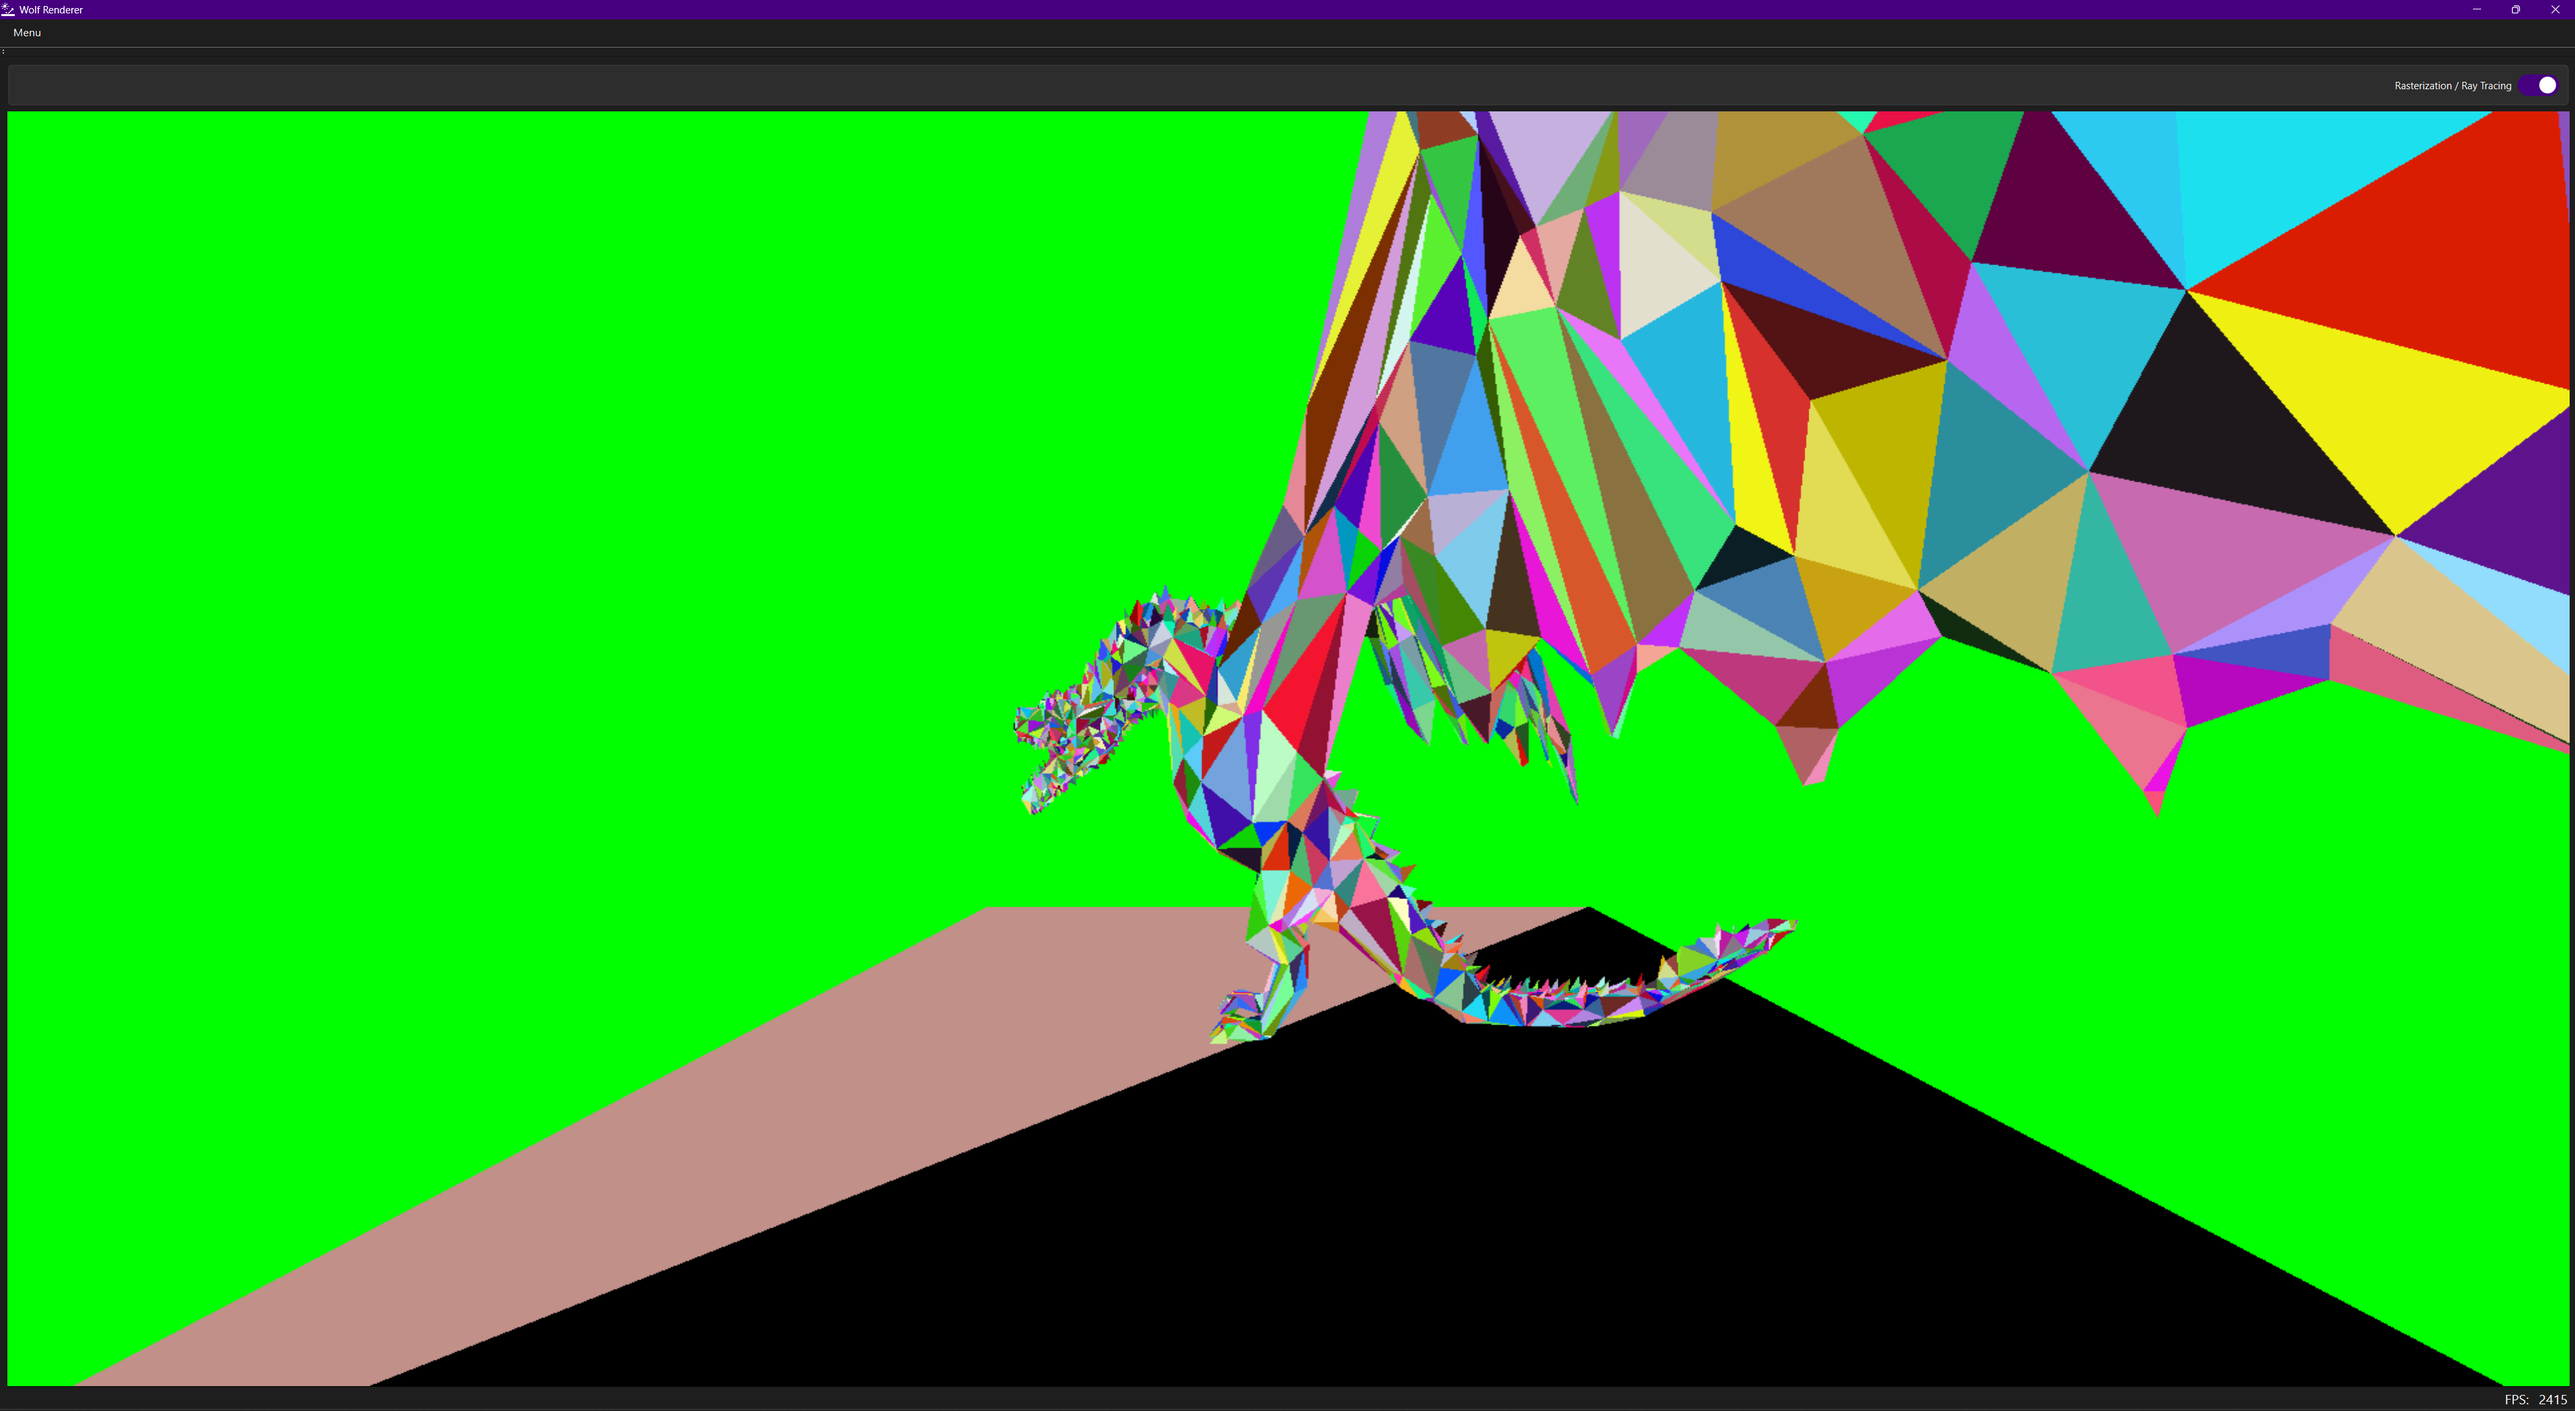
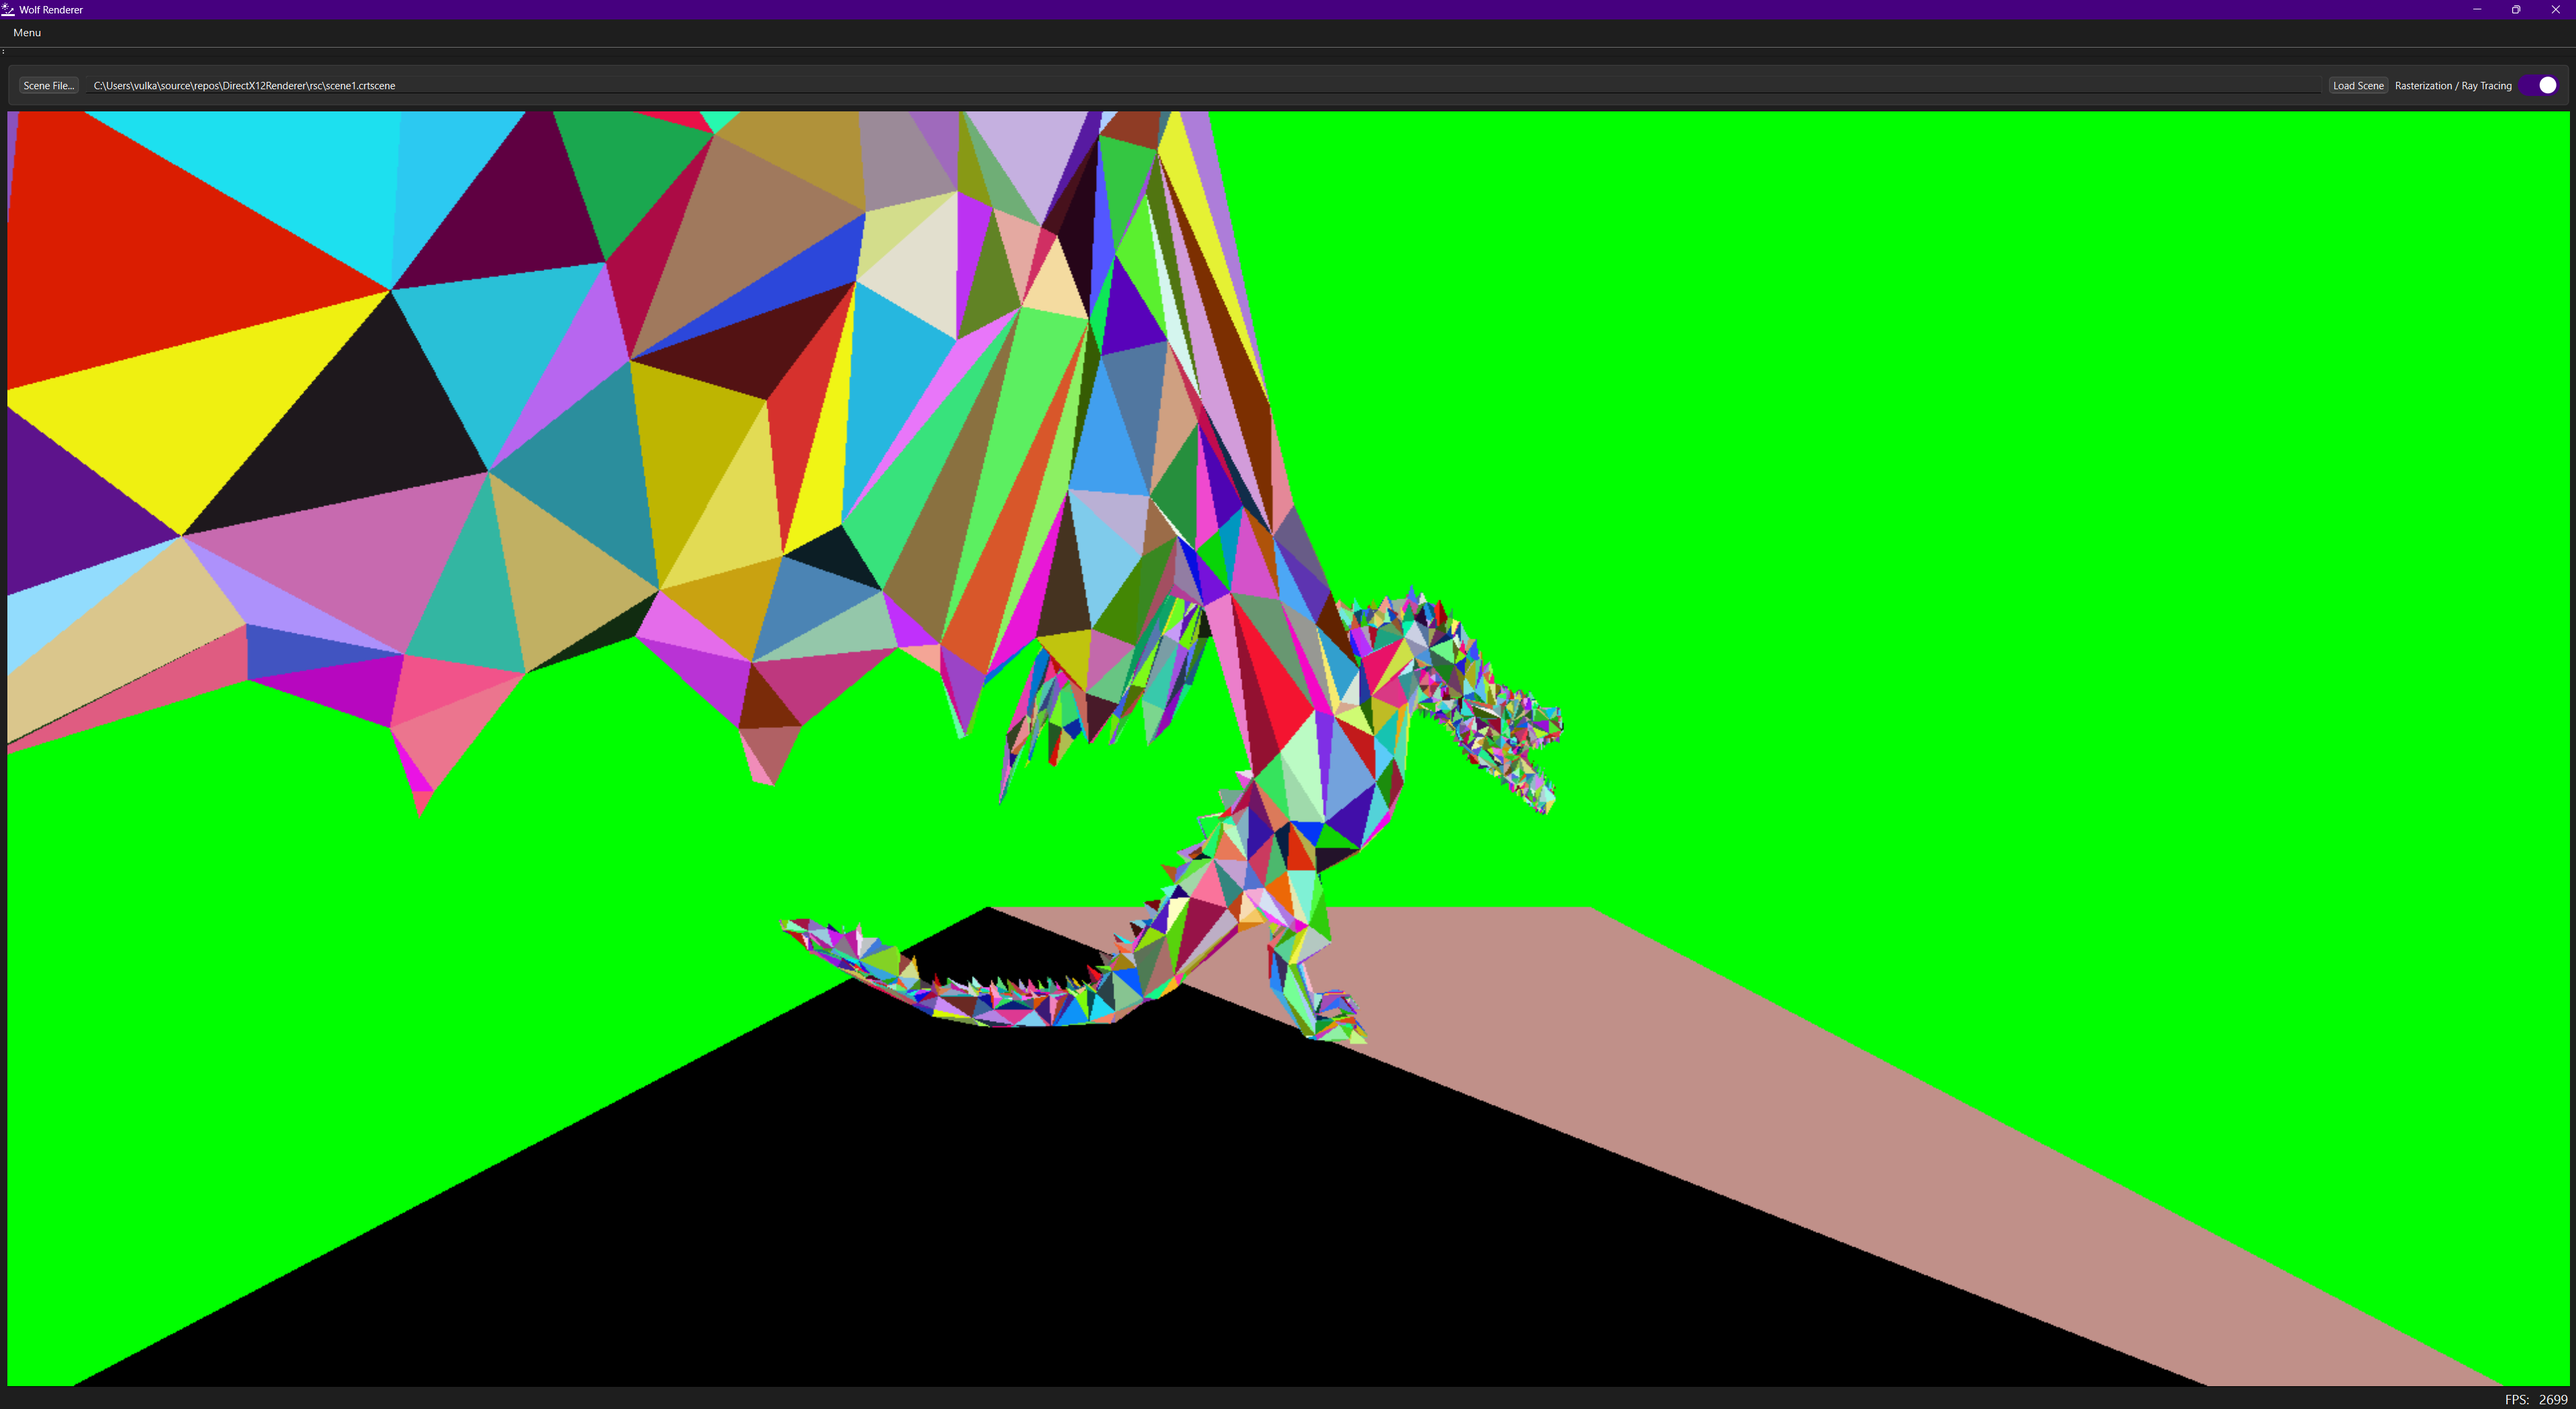
Documentation updates.

diff --git a/README.md b/README.md
@@ -53,6 +53,7 @@ If you have any issues building and running the application, you can try it out 
 
 #### Rendering Modes
 - **Dual Rendering Pipeline**: Seamlessly switch between rasterization and ray tracing at runtime.
+- **Scene Reloading at Runtime**: Pick and load a different scene to render without closing the application.
 - **Rasterization Pipeline**
   - Traditional vertex/pixel shader pipeline.
   - Configurable viewport and scissor rectangles.
@@ -149,6 +150,7 @@ If you have any issues building and running the application, you can try it out 
   - Native window handle (HWND) for DirectX rendering.
   - Controls using mouse and keyboard.
   - Custom cursor feedback.
+  - Mouse events handled using Windows API for RAW position deltas between frames.
 
 #### Application Features
 - **Lifecycle Management**
